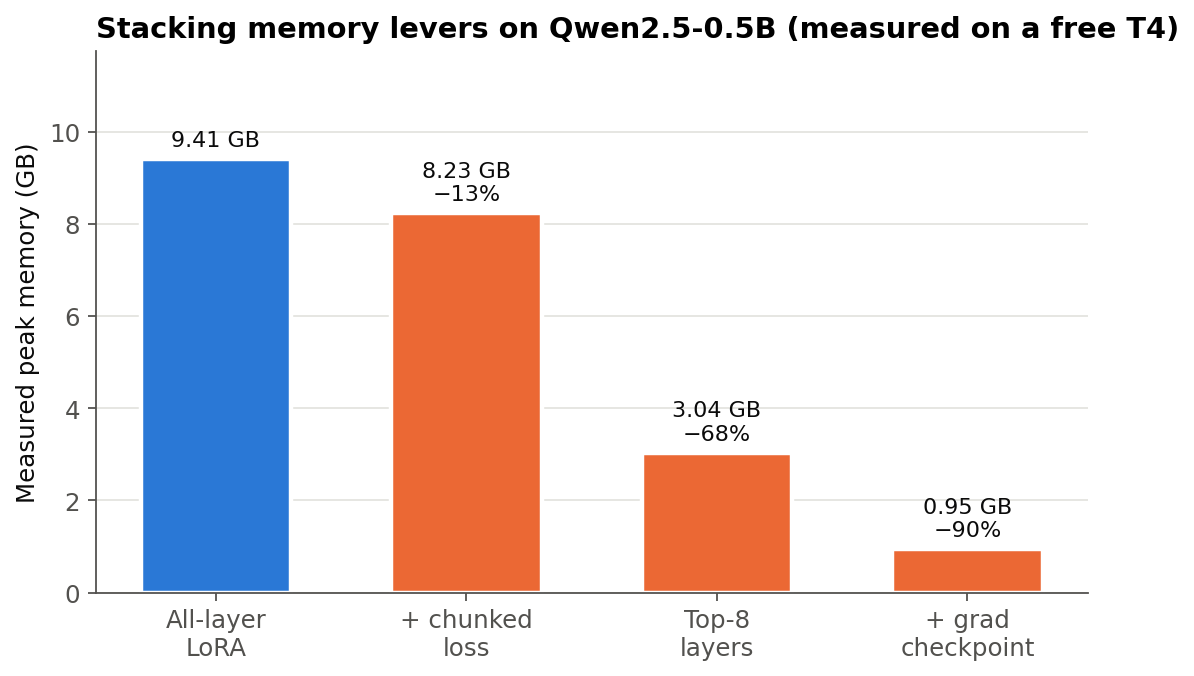
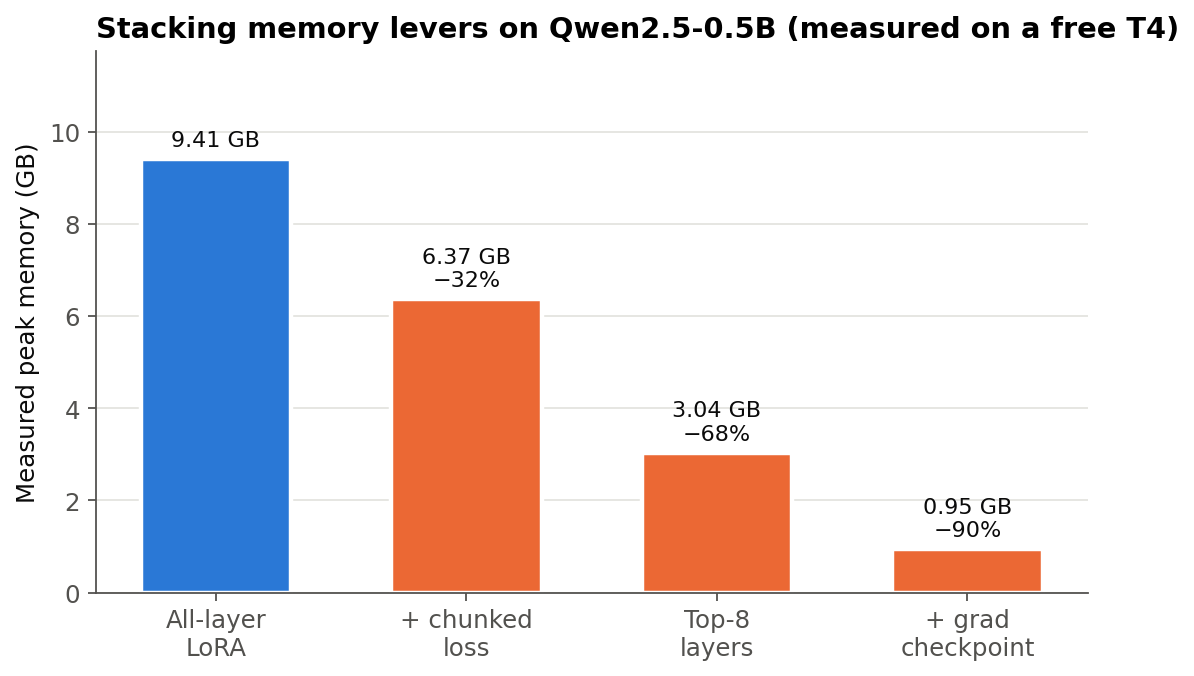
results: scores, runs, plots, pareto analysis

Changed region(s): [[0.3099, 0.2175, 0.4648, 0.466]]

diff --git a/results/summary.md b/results/summary.md
@@ -1,22 +1,23 @@
 | run_id | strip | levers | probe_peak_gb | mem_vs_lora_% | tok_s | heldout_loss | task_avg | d_task_avg_pts | lang_avg | d_lang_avg_pts |
 |---|---|---|---|---|---|---|---|---|---|---|
 | phase1_ref |  | - |  |  |  | 1.793 | 0.5122 | -0.77 | 0.43 | 2.83 |
-| top8_q4_gc | `................########` | NF4+GC+chunk | 0.9509 | -88.4 | 3841 | 1.688 | 0.4861 | -3.38 | 0.36 | -4.17 |
-| top8 | `................########` | chunk | 3.039 | -63.1 | 5822 | 1.612 | 0.5077 | -1.22 | 0.4133 | 1.17 |
-| budget35 | `...............#########` | chunk | 3.247 | -60.6 | 5806 | 1.605 | 0.509 | -1.09 | 0.44 | 3.83 |
-| budget50 | `...........#######.###.#` | chunk | 3.953 | -52 | 5143 | 1.589 | 0.5055 | -1.44 | 0.4117 | 1 |
-| lora_all_q4_gc | `########################` | NF4+GC+chunk | 4.777 | -42 | 1868 |  |  |  |  |  |
-| imp4 | `#.#........##...........` | chunk | 5.096 | -38.1 | 5003 | 1.602 | 0.5087 | -1.12 | 0.4183 | 1.67 |
-| drift4 | `###...#.................` | chunk | 5.096 | -38.1 | 5341 | 1.606 | 0.5278 | 0.8 | 0.4283 | 2.67 |
-| drift8 | `####.##..............#.#` | chunk | 5.351 | -35 | 4908 | 1.587 | 0.5356 | 1.57 | 0.425 | 2.33 |
-| imp8 | `#.###....####...........` | chunk | 5.351 | -35 | 4675 | 1.597 | 0.5087 | -1.12 | 0.4 | -0.17 |
-| random8 | `#..##..##..........##.#.` | chunk | 5.403 | -34.4 | 4171 | 1.583 | 0.5434 | 2.35 | 0.41 | 0.83 |
-| drift12 | `########...........###.#` | chunk | 5.607 | -31.9 | 4459 | 1.58 | 0.5389 | 1.9 | 0.4217 | 2 |
-| imp12 | `#######.#####...........` | chunk | 5.607 | -31.9 | 4248 | 1.595 | 0.5144 | -0.55 | 0.405 | 0.33 |
-| top4 | `....................####` | chunk | 6.134 | -25.5 | 7104 |  |  |  |  |  |
-| bottom8 | `########................` | chunk | 6.53 | -20.7 | 4140 | 1.602 | 0.5423 | 2.24 | 0.4117 | 1 |
-| random4 | `#..#................#..#` | chunk | 7.403 | -10.1 | 4495 | 1.591 | 0.5257 | 0.58 | 0.4317 | 3 |
-| top12 | `............############` | chunk | 8.034 | -2.4 | 4896 |  |  |  |  |  |
-| lora_all | `########################` | chunk | 8.232 | 0 | 3331 | 1.571 | 0.5199 | 0 | 0.4017 | 0 |
-| random12 | `#.###.####.........####.` | chunk | 8.994 | 9.3 | 3879 | 1.58 | 0.5346 | 1.47 | 0.4017 | 0 |
-| lora_all_plain | `########################` | - | 9.41 | 14.3 | 2252 | 1.575 | 0.5154 | -0.45 | 0.405 | 0.33 |
+| spec_ref |  | - |  |  |  | 1.795 | 0.5111 | -0.88 | 0.4317 | 3 |
+| top8_q4_gc | `................########` | NF4+GC+chunk | 0.9509 | -85.1 | 3841 | 1.688 | 0.4861 | -3.38 | 0.36 | -4.17 |
+| lora_all_q4_gc | `########################` | NF4+GC+chunk | 1.071 | -83.2 | 1868 |  |  |  |  |  |
+| top4 | `....................####` | chunk | 2.205 | -65.4 | 7104 |  |  |  |  |  |
+| top8 | `................########` | chunk | 3.039 | -52.3 | 5822 | 1.612 | 0.5077 | -1.22 | 0.4133 | 1.17 |
+| budget35 | `...............#########` | chunk | 3.247 | -49 | 5806 | 1.605 | 0.509 | -1.09 | 0.44 | 3.83 |
+| top12 | `............############` | chunk | 3.872 | -39.2 | 4896 |  |  |  |  |  |
+| budget50 | `...........#######.###.#` | chunk | 3.953 | -38 | 5143 | 1.589 | 0.5055 | -1.44 | 0.4117 | 1 |
+| imp4 | `#.#........##...........` | chunk | 5.096 | -20 | 5003 | 1.602 | 0.5087 | -1.12 | 0.4183 | 1.67 |
+| drift4 | `###...#.................` | chunk | 5.096 | -20 | 5341 | 1.606 | 0.5278 | 0.8 | 0.4283 | 2.67 |
+| random4 | `#..#................#..#` | chunk | 5.096 | -20 | 4495 | 1.591 | 0.5257 | 0.58 | 0.4317 | 3 |
+| random8 | `#..##..##..........##.#.` | chunk | 5.351 | -16 | 4171 | 1.583 | 0.5434 | 2.35 | 0.41 | 0.83 |
+| drift8 | `####.##..............#.#` | chunk | 5.351 | -16 | 4908 | 1.587 | 0.5356 | 1.57 | 0.425 | 2.33 |
+| bottom8 | `########................` | chunk | 5.351 | -16 | 4140 | 1.602 | 0.5423 | 2.24 | 0.4117 | 1 |
+| imp8 | `#.###....####...........` | chunk | 5.351 | -16 | 4675 | 1.597 | 0.5087 | -1.12 | 0.4 | -0.17 |
+| imp12 | `#######.#####...........` | chunk | 5.607 | -12 | 4248 | 1.595 | 0.5144 | -0.55 | 0.405 | 0.33 |
+| drift12 | `########...........###.#` | chunk | 5.607 | -12 | 4459 | 1.58 | 0.5389 | 1.9 | 0.4217 | 2 |
+| random12 | `#.###.####.........####.` | chunk | 5.607 | -12 | 3879 | 1.58 | 0.5346 | 1.47 | 0.4017 | 0 |
+| lora_all | `########################` | chunk | 6.372 | 0 | 3331 | 1.571 | 0.5199 | 0 | 0.4017 | 0 |
+| lora_all_plain | `########################` | - | 9.41 | 47.7 | 2252 | 1.575 | 0.5154 | -0.45 | 0.405 | 0.33 |

diff --git a/results/pareto_main.md b/results/pareto_main.md
@@ -1,0 +1,23 @@
+| run_id | layers | levers | trainable_pct | peak_gb | mem_status | mem_reduction_pct | heldout_loss | d_task_pts | tok_s | step_time_s | pareto | status |
+|---|---|---|---|---|---|---|---|---|---|---|---|---|
+| top8_q4_gc | `................########` | NF4+GC+chunk |  | 0.9509 | measured | 89.9 | 1.688 | -2.61 | 3841 |  | **yes** | done |
+| lora_all_q4_gc | `########################` | NF4+GC+chunk |  | 1.071 | measured | 88.6 |  |  | 1868 |  |  | incomplete |
+| top4 | `....................####` | chunk |  | 2.205 | measured | 76.6 |  |  | 7104 |  |  | incomplete |
+| top8 | `................########` | chunk |  | 3.039 | measured | 67.7 | 1.612 | -0.45 | 5822 |  | **yes** | done |
+| budget35 | `...............#########` | chunk |  | 3.247 | measured | 65.5 | 1.605 | -0.32 | 5806 |  | **yes** | done |
+| top12 | `............############` | chunk |  | 3.872 | measured | 58.9 |  |  | 4896 |  |  | incomplete |
+| budget50 | `...........#######.###.#` | chunk |  | 3.953 | measured | 58 | 1.589 | -0.67 | 5143 |  | **yes** | done |
+| random4 | `#..#................#..#` | chunk |  | 5.096 | measured | 45.8 | 1.591 | 1.36 | 4495 |  |  | done |
+| imp4 | `#.#........##...........` | chunk |  | 5.096 | measured | 45.8 | 1.602 | -0.35 | 5003 |  |  | done |
+| drift4 | `###...#.................` | chunk |  | 5.096 | measured | 45.8 | 1.606 | 1.57 | 5341 |  |  | done |
+| random8 | `#..##..##..........##.#.` | chunk |  | 5.351 | measured | 43.1 | 1.583 | 3.12 | 4171 |  | **yes** | done |
+| imp8 | `#.###....####...........` | chunk |  | 5.351 | measured | 43.1 | 1.597 | -0.35 | 4675 |  |  | done |
+| drift8 | `####.##..............#.#` | chunk |  | 5.351 | measured | 43.1 | 1.587 | 2.35 | 4908 |  |  | done |
+| bottom8 | `########................` | chunk |  | 5.351 | measured | 43.1 | 1.602 | 3.01 | 4140 |  |  | done |
+| random12 | `#.###.####.........####.` | chunk |  | 5.607 | measured | 40.4 | 1.58 | 2.24 | 3879 |  | **yes** | done |
+| imp12 | `#######.#####...........` | chunk |  | 5.607 | measured | 40.4 | 1.595 | 0.22 | 4248 |  |  | done |
+| drift12 | `########...........###.#` | chunk |  | 5.607 | measured | 40.4 | 1.58 | 2.67 | 4459 |  |  | done |
+| lora_all | `########################` | chunk |  | 6.372 | measured | 32.3 | 1.571 | 0.77 | 3331 |  | **yes** | done |
+| lora_all_plain | `########################` | plain |  | 9.41 | measured | 0 | 1.575 | 0.32 | 2252 |  |  | done |
+
+Baseline for memory reduction: `lora_all_plain` (9.4099 GB). Reference for Δtask: `phase1_ref` (held-out loss 1.7931028370125812). Pareto computed on measured (isolated) memory only; 'inflated' rows need `python scripts/reprobe.py --auto`.

diff --git a/results/pareto_spec.md b/results/pareto_spec.md
@@ -1,0 +1,10 @@
+| run_id | layers | levers | trainable_pct | peak_gb | mem_status | mem_reduction_pct | heldout_loss | d_task_pts | tok_s | step_time_s | pareto | status |
+|---|---|---|---|---|---|---|---|---|---|---|---|---|
+| spec_C_grad6_gc | `###.#......##...........` | NF4+GC+chunk | 0.0857 | 0.7824 | measured | 32.4 | 1.752 | -0.59 | 451.8 | 2.326 | **yes** | done |
+| spec_D_grad6_gc_offload | `###.#......##...........` | NF4+GC+chunk+offload | 0.0857 | 1.024 | measured | 11.4 | 1.752 | -0.59 | 395.6 | 2.657 |  | done |
+| spec_E_grad3 | `#.#.#...................` | NF4+chunk | 0.0429 | 1.124 | measured | 2.8 | 1.769 | -0.25 | 748.5 | 1.404 |  | done |
+| spec_B_grad6 | `###.#......##...........` | NF4+chunk | 0.0857 | 1.129 | measured | 2.4 | 1.752 | -0.59 | 730.7 | 1.438 |  | done |
+| spec_E_grad12 | `#####.#.#####...#.......` | NF4+chunk | 0.1713 | 1.138 | measured | 1.6 | 1.737 | -0.87 | 714.8 | 1.47 | **yes** | done |
+| spec_A_all | `########################` | NF4+chunk | 0.342 | 1.157 | measured | 0 | 1.714 | -0.15 | 636.2 | 1.652 | **yes** | done |
+
+Baseline for memory reduction: `spec_A_all` (1.1568 GB). Reference for Δtask: `spec_ref` (held-out loss 1.7951911256359125). Pareto computed on measured (isolated) memory only; 'inflated' rows need `python scripts/reprobe.py --auto`.
